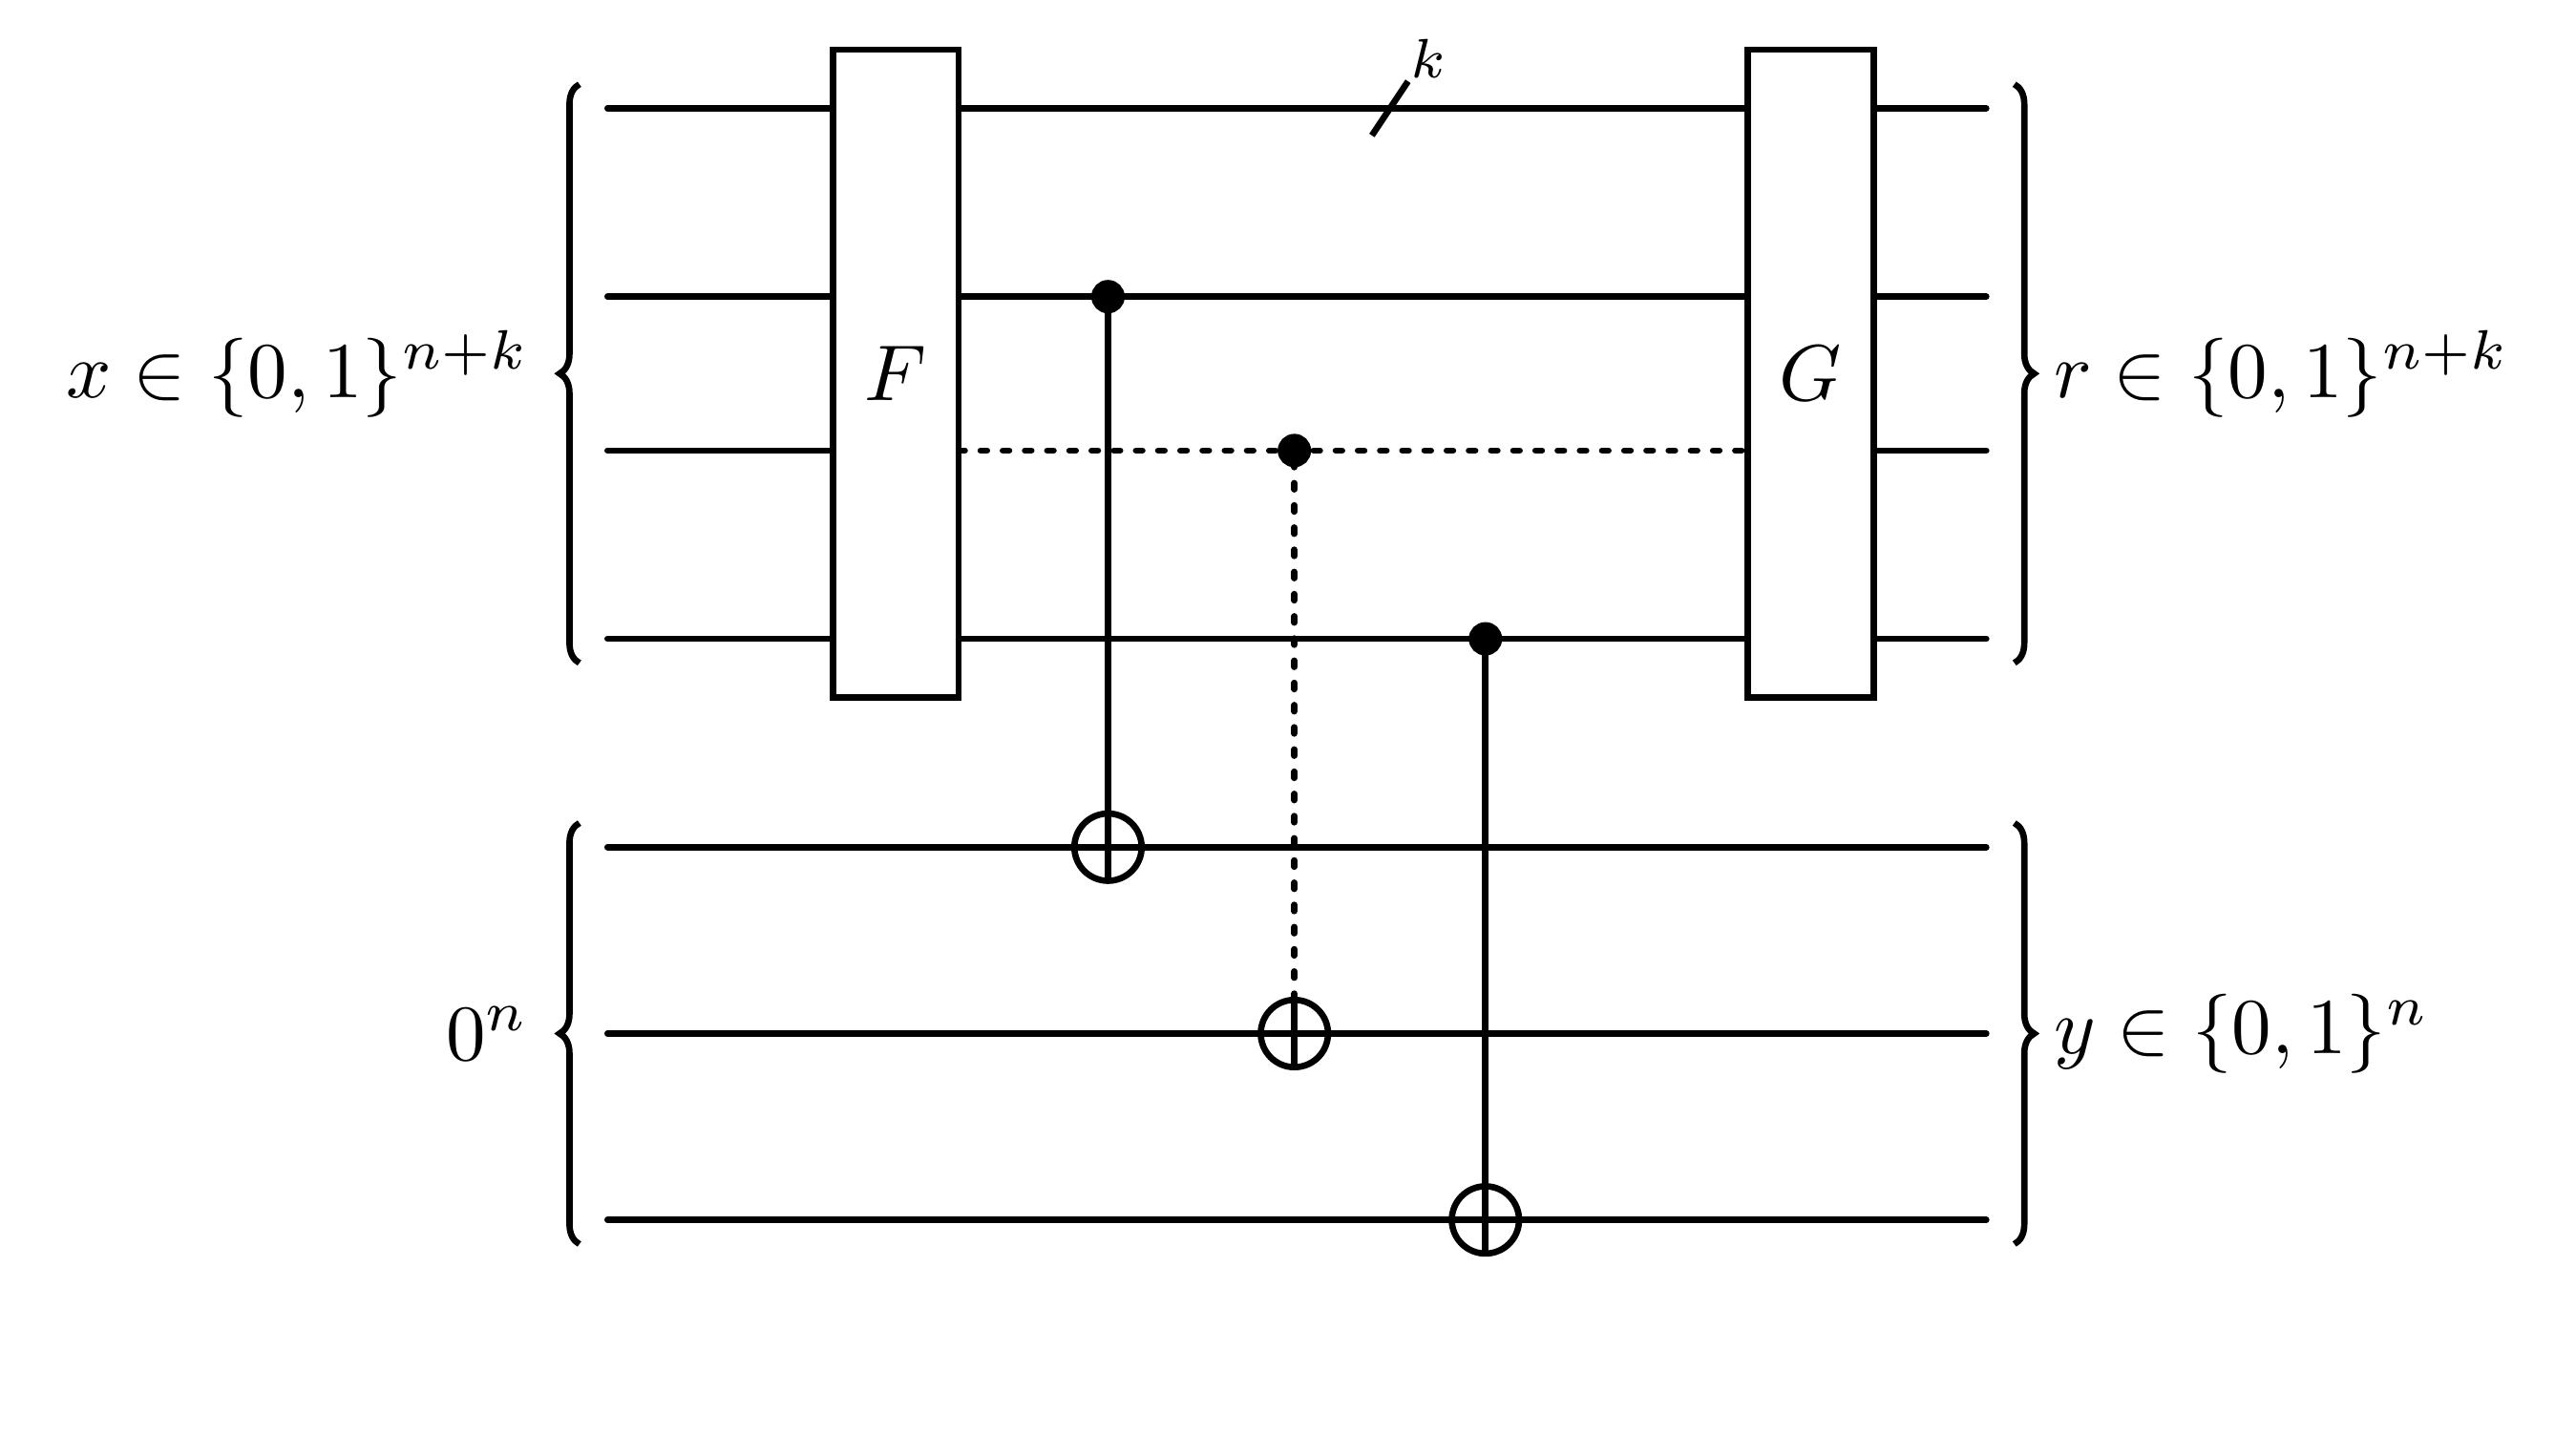
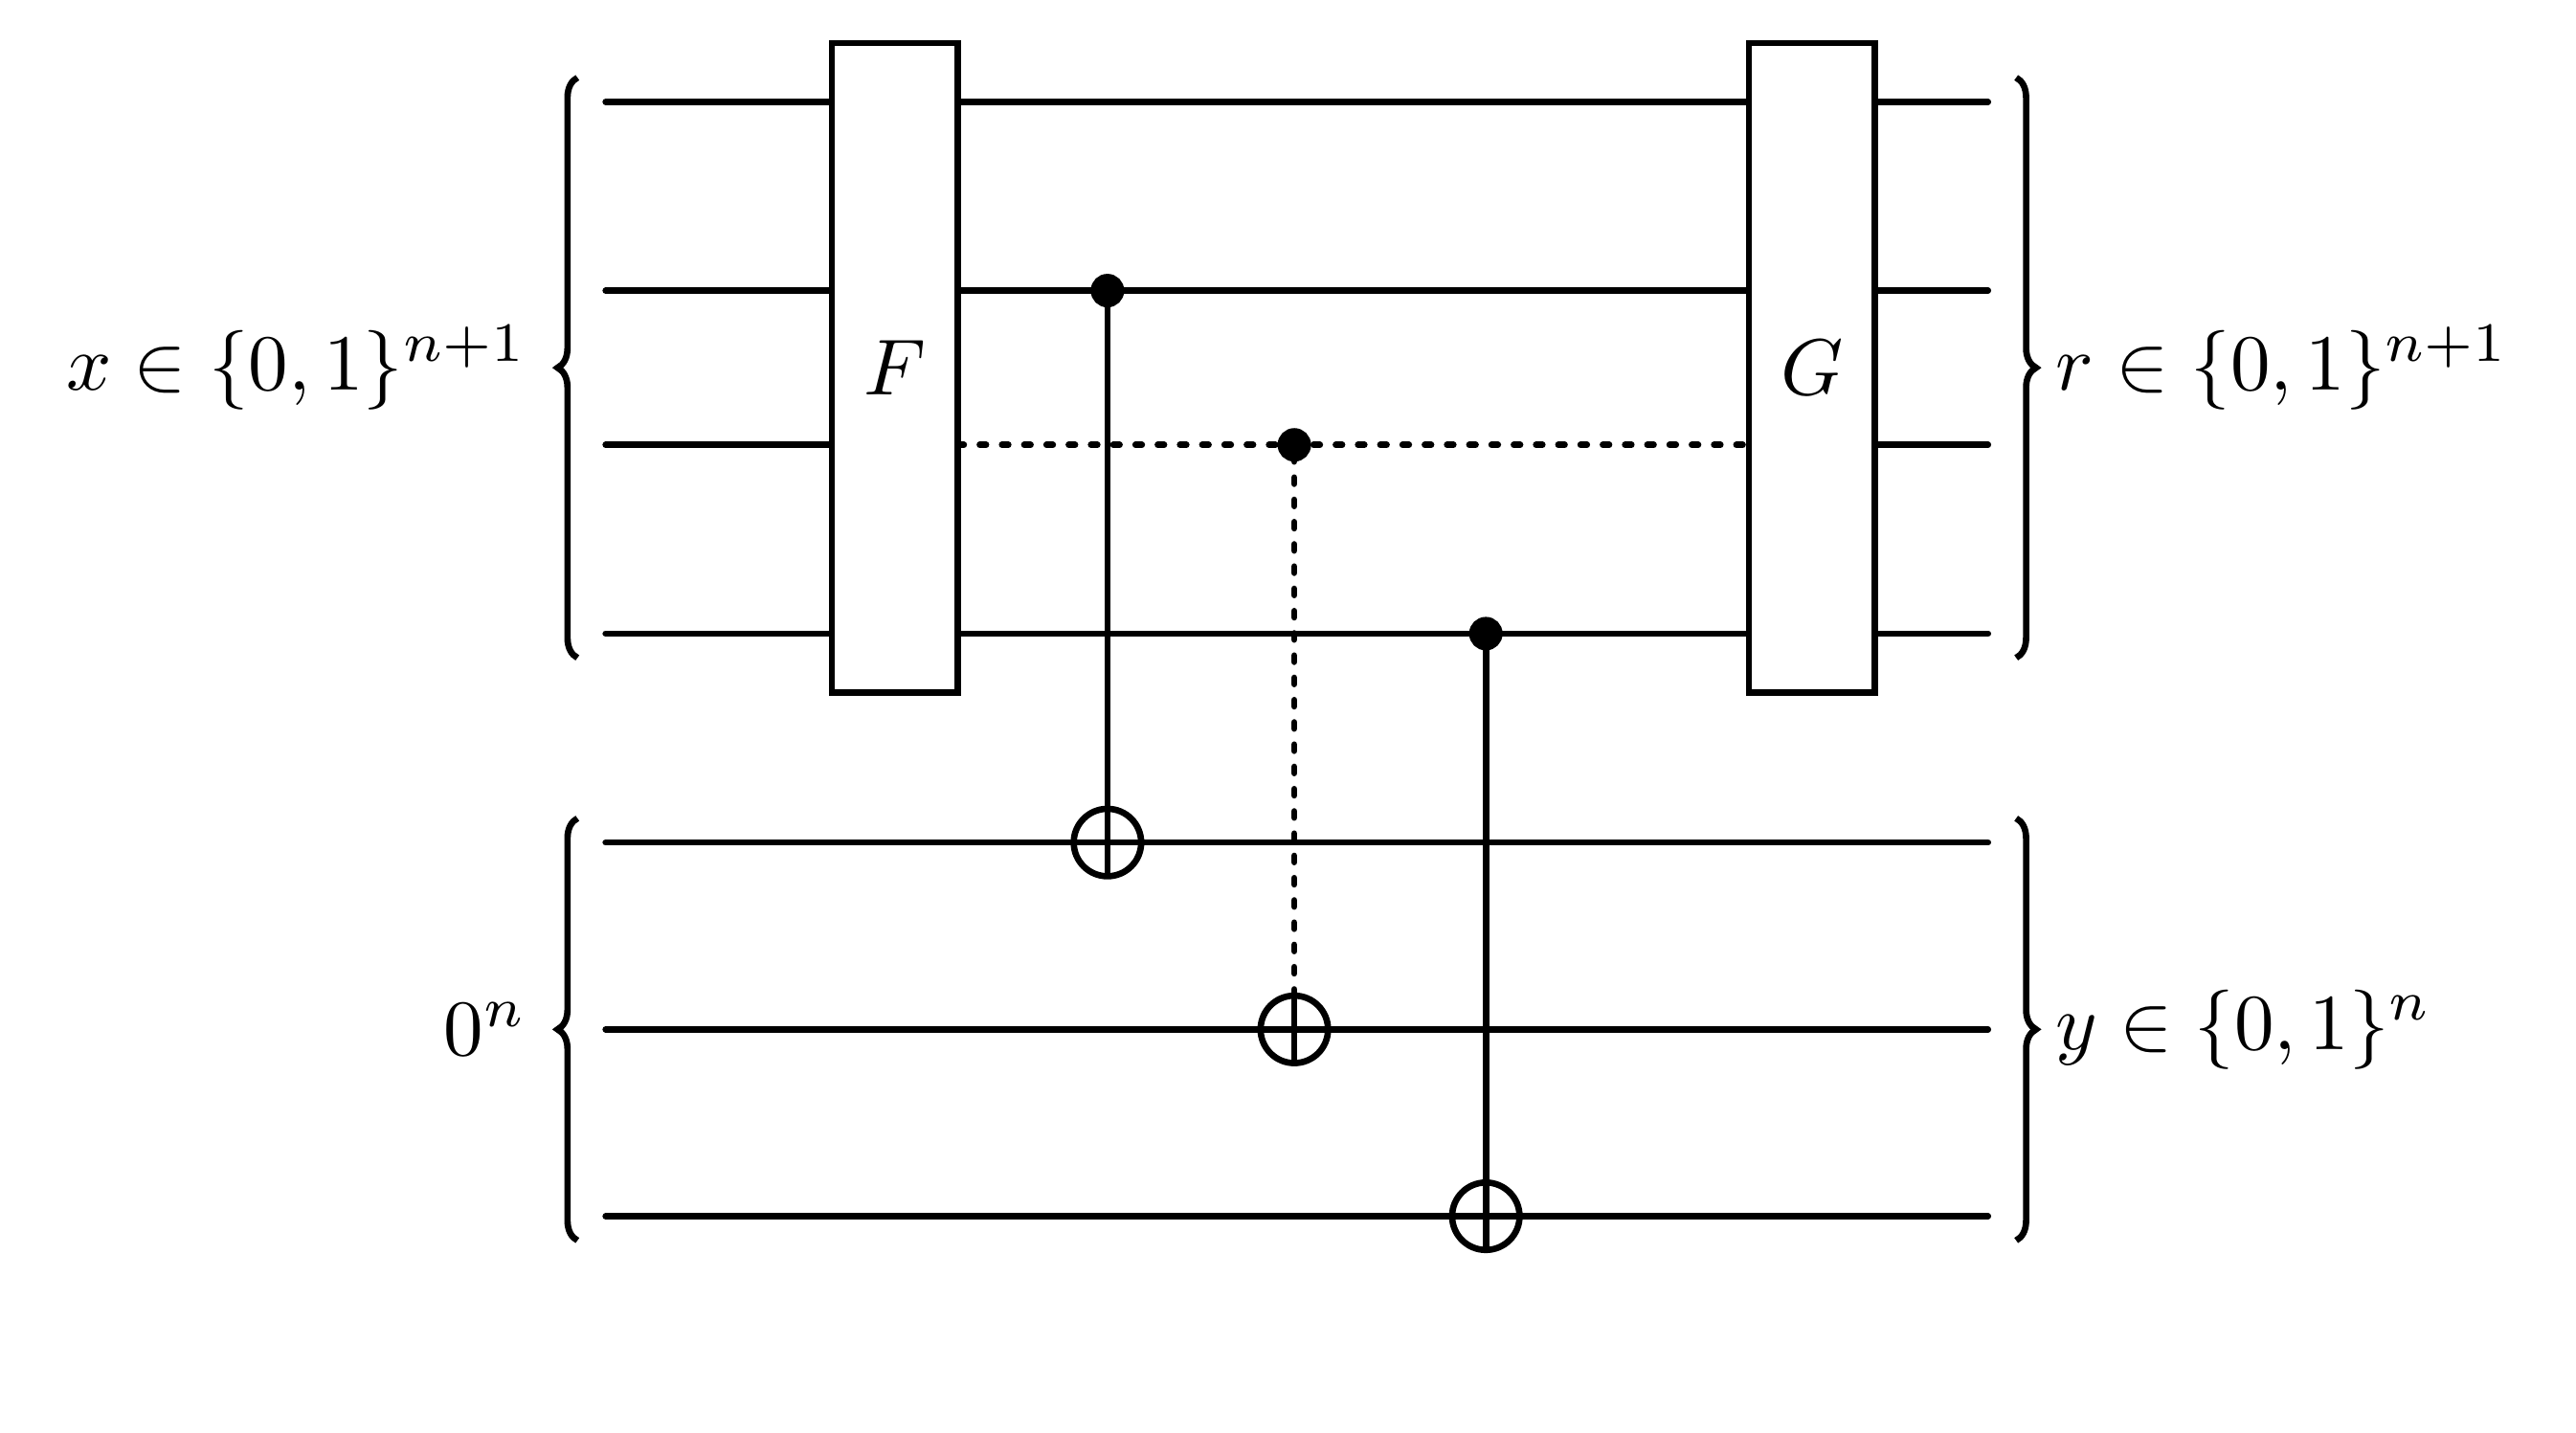
no commute img

diff --git a/circuits/no-commute.tex b/circuits/no-commute.tex
@@ -1,0 +1,18 @@
+\documentclass[tikz, border=5pt]{standalone}
+\usepackage{tikz}
+\usetikzlibrary{quantikz2} 
+
+\begin{document}
+
+\newcommand{\mt}{\wireoverride{n}}
+
+\begin{quantikz}
+  & \ctrl{1}  & \targ{}    & \qw & \mt      & \mt & \targ{}   & \ctrl{1}  & \qw \\
+  & \octrl{1} & \ctrl{1}   & \qw & \mt \neq & \mt & \ctrl{1}  & \octrl{1} & \qw \\
+  & \targ{}   & \octrl{-2} & \qw & \mt      & \mt & \octrl{-2} & \targ{}   & \qw \\
+  \\
+  \setwiretype{n} &
+  \gategroup[1, steps=2,style={draw=none,anchor=north}]{$(0\ 4\ 1\ 5)(2\ 3\ 6\ 7)$} & & & & &
+  \gategroup[1, steps=2,style={draw=none,anchor=north}]{$(0\ 5\ 1\ 4)(2\ 7\ 6\ 3)$} & &
+\end{quantikz}
+\end{document}

diff --git a/circuits/tdp.tex b/circuits/tdp.tex
@@ -7,7 +7,7 @@
 \begin{document}
 
 \begin{quantikz}
-    \lstick[4]{$x\in\{0,1\}^{n+k}$} && \gate[4]{F} & && \qwbundle{k} && \gate[4]{G} &  \rstick[4]{$r\in\{0,1\}^{n+k}$} \\
+    \lstick[4]{$x\in\{0,1\}^{n+1}$} && \gate[4]{F} & &&&& \gate[4]{G} &  \rstick[4]{$r\in\{0,1\}^{n+1}$} \\
     &&&  \ctrl{3} \setwiretype{q}  &&&&        & \\
     &&\wire[r][5][dotted]{q}&\setwiretype{n}  & \phase{} &&&&\wireoverride{q}  \\
     &&&\setwiretype{q} && \ctrl{3} &&& \\

diff --git a/_posts/2026-05-25-trapdoor.md b/_posts/2026-05-25-trapdoor.md
@@ -24,11 +24,19 @@ Feistel structure, etc. forward but not backwards
 
 ## Example
 
-Here's an unobfuscated circuit with $$n=15,k=1$$.
+And here is a random 16-wire circuit $$F$$:
 
 ```
 # TODO
 ```
+
+And here is an **unobfuscated** trapdoor construction with $$n=15$$ and $$G=F^{-1}$$.
+
+```
+# TODO
+```
+
+Observe that for all inputs $$x\| 0$$, the final output matches the lower bits of $$F(x)$$.
 
 
 ## The challenge

diff --git a/howto.md b/howto.md
@@ -52,7 +52,9 @@ A _reversible circuit_ $$C$$ computes a bijective function over a fixed number o
 
 The reversible gates that we consider are [their own inverse](https://en.wikipedia.org/wiki/Involution_(mathematics)), so for any gate $$g$$, we have that $$gg=1$$, the identity circuit. (This shows that $$CC^{-1}=1$$, as well.) We will sometimes write $$1_n$$ to explicitly represent the identity circuit over $$n$$ wires.
 
-Since the permutation group is nonabelian, gates do not commute in general.
+However, since the permutation group is nonabelian, gates do not commute in general.
+
+![don't commute](/assets/img/ckt/no-commute.png){: width="60%"}
 
 At first glance, we might expect that the set of reversible circuits on $$n$$ wires, $$\mathcal C_n$$, computes all of the $$n$$-bit permutations, $$\mathbb S_{2^n}$$. However, in the general case, reversible circuits only compute the _even_ permutations, $$\mathbb A_{2^n}$$.[^1] These are the permutations with an even number of transpositions.
 
@@ -103,13 +105,15 @@ Zakablukov[^zak] provided a constructive proof that at most $$(1+o(1))\cdot 48n2
 
 ### Computing functions which are not bijections
 
-We can embed non-bijective functions in a reversible circuit by only considering a subset of the bits. Say we want to construct a circuit for some function $$f:\{0,1\}^n\mapsto \{0,1\}$$. We will implement:
+We can embed non-bijective functions in a reversible circuit by only considering a subset of the output bits. Say we want to construct a circuit for some function $$f:\{0,1\}^n\mapsto \{0,1\}$$. We will implement:
 
 $$
 C(x) = (f(x) \mid\mid r(x))
 $$
 
 where $$r:\{0,1\}^n\mapsto\{0,1\}^{n-1}$$ is the arbitrary function computed by the inner machinery of the circuit. $$(\cdot \mid\mid \cdot)$$ represents concatenation. Observe that reversibility requires that $$C^{-1}(f(x)\mid\mid r(x)) = x$$.
+
+Some functions require ancilla bits during computation. So while $$f$$ 
 
 ## Our Approach to Obfuscation
 
@@ -124,7 +128,7 @@ Intuitively, we might expect this to reach a stationary distribution after suffi
 
 **Notation.** In the challenges, we will represent gates as a string of three alphanumeric characters. These represent the active, positive control (??), and negative control, respectively. For example, this circuit
 
-![example circuit](/assets/img/ckt/small-example.png){: width="20%"}
+![example circuit](/assets/img/ckt/small-example.png){: width="25%"}
 
 is compactly represented by the string `301;032;102`. We label the wires $$0$$ (top) to $$n-1$$ (bottom).
 